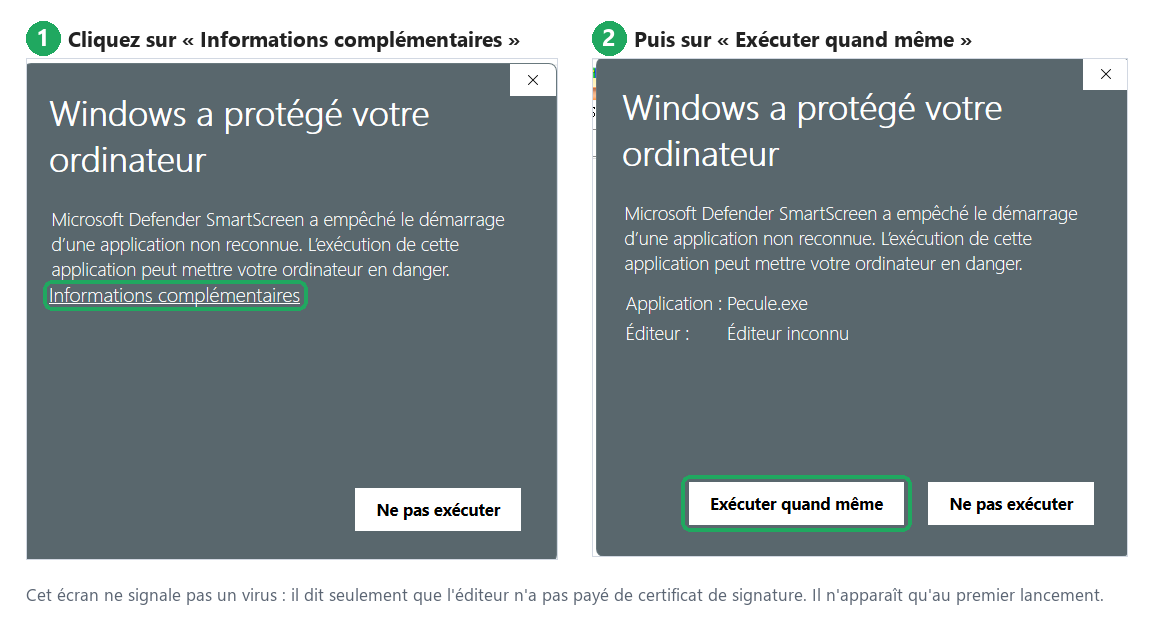
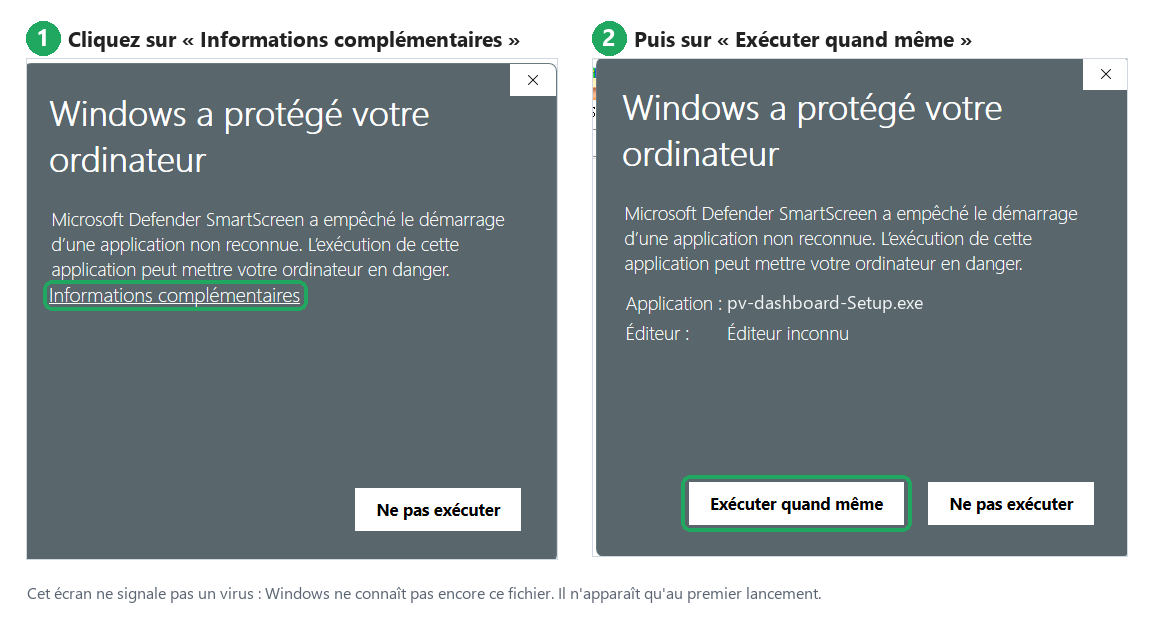
Documentation : README, image du site et commentaires remis d'accord
- README : trois onglets conditionnels (Annees OA en plus), l'etape
  « Mixte » de l'export d'index Enedis, les boutons Sauvegarde externe et
  Mise a jour, et neuf fichiers qui manquaient a la structure du projet ;
- page du site : l'image SmartScreen montrait « Pecule.exe » ; elle montre
  pv-dashboard-Setup.exe, et sa legende ne dit plus qu'un certificat
  enleverait l'avertissement (le texte de la page dit le contraire) ;
- commentaires : lancement par run.py, largeur du menu, plus de theme
  sombre, bascule HP/HC reglable et non plus « 2026 », populate(period).

Changed region(s): [[0.0312, 0.929, 0.9671, 0.959], [0.6239, 0.4495, 0.8111, 0.5095]]

diff --git a/calculations.py b/calculations.py
@@ -11,8 +11,9 @@ Modele :
 Tarifs :
   - Vente OA surplus : prix unique * injection
   - Prime autoconso : montant_par_kwc * Pcrete reparti sur 5 ans
-  - Achat reseau    : Bleu Base par tranches historiques jusqu'au 31/12/2025,
-                      puis Octopus HP/HC depuis le 01/01/2026.
+  - Achat reseau    : tarif a prix unique (Bleu Base) par tranches, puis
+                      contrat HP/HC a partir de la date de bascule
+                      (tarifs_reseau.bascule_hphc ; 01/01/2026 par defaut).
 """
 
 from __future__ import annotations
@@ -798,9 +799,9 @@ def cout_reseau_journalier(
     """
     Calcule le cout d'achat reseau journalier en EUR.
 
-    - Avant 2026 : prix unique Bleu Base * soutirage_kwh journalier
-    - Depuis 2026 : si soutirage_par_heure dispo -> split HP/HC reel ;
-                    sinon estimation via ratio HP/HC moyen.
+    - Avant la bascule HP/HC : prix unique Bleu Base * soutirage_kwh
+    - Depuis la bascule : detail HC/HP du jour s'il est releve ; sinon
+      estimation par le ratio HC observe sur les jours detailles.
     """
     out = df_daily.copy()
     out["cout_reseau_eur"] = 0.0
@@ -907,8 +908,8 @@ def economies_autoconsommation(
     Estimation de l'economie liee a l'autoconsommation : autoconso_kwh valorisee
     au prix d'achat reseau du moment.
 
-    - Avant 2026 : prix Bleu Base de la date.
-    - Depuis 2026 (Octopus) : l'autoconso remplace des achats en journee
+    - Avant la bascule HP/HC : prix Bleu Base de la date.
+    - Depuis la bascule : l'autoconso remplace des achats en journee
       (heures solaires), donc surtout en HP. On pondere HP/HC par
       part_hc_autoconso (config), et non par la duree des plages sur 24 h
       qui inclurait a tort la plage HC de nuit.

diff --git a/app_desktop.py b/app_desktop.py
@@ -1,8 +1,8 @@
 """
 Application desktop PySide6 - Dashboard photovoltaique style "appli comptes".
 
-Lancer :
-    py app_desktop.py
+Se lance par run.py (Lancer.vbs, Lancer.bat, l'exe) : c'est lui qui montre
+l'ecran d'attente puis ouvre cette fenetre.
 """
 
 from __future__ import annotations
@@ -734,7 +734,7 @@ class MainWindow(QMainWindow):
         self._update_status_bar()
 
     # Au-dela de cette longueur, deux noms de fournisseurs ne tiennent plus
-    # dans le menu (largeur fixe de 230 px) : on retombe sur un libelle
+    # dans le menu (largeur fixe de 212 px) : on retombe sur un libelle
     # generique plutot que sur un texte coupe au milieu.
     LARGEUR_MAX_NAV = 22
 
@@ -755,8 +755,7 @@ class MainWindow(QMainWindow):
         sections annoncees par un petit titre souligne. Difference avec
         Pecule, dont les boutons lancent des actions : ici ils menent a des
         pages, et celle qui est affichee est le bouton surligne. Les couleurs
-        suivent le theme (gui_theme.py) : en theme clair, ce sont celles de
-        Pecule ; en sombre, leur transposition.
+        suivent le theme (gui_theme.py), clair et seul : celles de Pecule.
         """
         sidebar = QFrame()
         sidebar.setObjectName("Sidebar")

diff --git a/views/_base.py b/views/_base.py
@@ -9,7 +9,7 @@ from gui_widgets import Card
 
 
 class BaseView(QWidget):
-    """Classe de base : chaque vue implemente `populate(df, period)`."""
+    """Classe de base : chaque vue implemente `populate(period)`."""
 
     # False dans les vues qui ignorent le selecteur de periode global :
     # MainWindow grise alors le menu deroulant quand la vue est affichee.

diff --git a/README.md b/README.md
@@ -175,8 +175,9 @@ d'une annee OA se lisent en survolant son entree dans le menu.
 ## Le menu de gauche
 
 Les pages sont rangees en quatre sections — Principal, Contrats, Analyse,
-Autres — chacune avec un pictogramme, separees par un filet. Deux n'apparaissent
-que si elles vous concernent : **TVA autoconsommation** (section `tva_lasm`
+Autres — chacune avec un pictogramme, separees par un filet. Trois n'apparaissent
+que si elles vous concernent : **Annees OA** (si vous vendez votre electricite :
+masquee avec `oa.type: aucune`), **TVA autoconsommation** (section `tva_lasm`
 remplie) et la **comparaison avec EDF** (fournisseur autre qu'EDF). Le bandeau reprend celui de Pecule : boutons rectangulaires, un
 emoji devant chaque libelle, titres de section soulignes ; la page
 affichee est le bouton surligne en bleu. En haut du
@@ -192,14 +193,16 @@ version.
 | Releves journaliers | Journal jour par jour : production, autoconsommee, injectee, achetee au reseau (et part du vehicule), recettes, depenses, bilan du jour ; ligne de totaux de la periode sous le tableau (a part, pour que le tri ne la deplace pas) |
 | Repartition energie | Taux d'autoconsommation, couverture solaire et bilan ; diagramme de flux (Sankey) production/reseau -> injection/consommation ; detail par poste avec prix au kWh ; comparaison N vs N-1 |
 | Synthese financiere | 6 postes (Vente OA, Prime, Economies, Facture, Investissement, Bilan global) + graphique « Remboursement de l'installation » (ce qu'elle a rapporte face a son cout, projection au rythme actuel ; chaque versement de la prime, qui fait une marche dans la courbe, est marque d'un point et le dernier porte l'etiquette « Prime autoconso »). Le **bilan global** = ventes + economies + primes versees − cout de l'installation : la facture reseau n'y entre pas (on la paierait sans panneaux ; ce que les panneaux y changent est deja dans les economies). Meme calcul que la barre « Installation remboursee » du tableau de bord (`amortissement()`) |
-| Annees OA | Recap par annee de contrat OA (de sa date de debut a la veille de son anniversaire) |
+| Annees OA | Recap par annee de contrat OA (de sa date de debut a la veille de son anniversaire). **Masquee sans revente** (`oa.type: aucune`) |
 | TVA autoconsommation | Base de la livraison a soi-meme par annee civile (ligne 5A du 3517-S), TVA due, et recoupement des injections relevees avec les factures EDF OA. **N'apparait que si la section `tva_lasm` est remplie** : elle ne concerne que les producteurs assujettis a la TVA |
 | Statistiques | Comparaisons annuelles, rendement kWh/kWc |
 | Comparaison N vs N-1 | La periode choisie en haut (mois, annee, annee OA) vs la meme periode un an plus tot (periode en cours : memes dates de N-1) ; bouton « Une journee precise » pour comparer un jour donne |
 | *Fournisseur* vs *reference* | Cout reel du contrat en cours vs simulation de l'offre de reference, options Base et HP/HC (depuis la bascule). Le libelle porte les noms declares en config : "Mon fournisseur vs EDF" avec le modele livre. **Masque quand le fournisseur declare est EDF** (`nom: "EDF"`) : comparer EDF a EDF n'a pas de sens |
 | Notice | Mode d'emploi et glossaire des termes |
 | Votre avis | Ouvre un court questionnaire en ligne dans le navigateur (probleme, idee), apres avoir copie la version. L'application n'envoie rien elle-meme. Une seule invitation, deux semaines apres le premier lancement |
-| Parametres | Vue lecture seule de la configuration, et la liste des recalages actifs |
+| Parametres | Vue lecture seule de la configuration, et la liste des recalages actifs ; bouton « Modifier mes reglages » |
+| 💾 Sauvegarde externe | Copie les donnees sur une cle USB ou un disque choisi, verifiee fichier par fichier. Un rappel s'affiche sur le tableau de bord au-dela de 30 jours sans sauvegarde |
+| 🔄 Mise a jour | Affiche la version installee et ouvre, a la demande, la page de la derniere version dans le navigateur : l'application ne se connecte jamais a Internet, c'est vous qui comparez les numeros |
 
 ## Donnees
 
@@ -281,7 +284,8 @@ export "date + valeur" passe (voir plus bas). Les trois sources habituelles :
   creuses / heures pleines**. Si vous injectez, sa feuille d'index de
   production donne en plus votre **injection** : un seul fichier remplit
   quatre colonnes. Pour l'obtenir : *Ma consommation > Suivre ma
-  consommation*, choisir **Index (kWh)** dans le menu de droite, puis
+  consommation*, choisir **Mixte** dans le menu du milieu (sans quoi la
+  production manque) et **Index (kWh)** dans celui de droite, puis
   *Telecharger le .xlsx* ;
 - **chez Enedis** toujours, le **classeur Excel** officiel
   (`..._Export_energie_Consommation-Production_....xlsx`) : les feuilles
@@ -725,6 +729,7 @@ pv-dashboard/
 ├── Lancer.bat            # Lanceur debug (console visible)
 ├── Construire-Exe.bat    # Fabrique le dossier dist
 ├── faire_installeur.py   # Fabrique distribution\pv-dashboard-Setup-X.Y.Z.exe
+├── faire_archive.py      # Fabrique l'archive portable (.zip), sans installeur
 ├── installeur/
 │   └── pv-dashboard.iss  #   Recette Inno Setup. Son AppId ne doit JAMAIS
 │                         #   changer (reconnaissance des mises a jour)
@@ -737,6 +742,13 @@ pv-dashboard/
 ├── data_loaders.py       # Lecture/ecriture Releves-pv.csv (atomique + .bak)
 ├── gui_theme.py          # Theme clair + QSS + style matplotlib
 ├── gui_widgets.py        # Widgets reutilisables (cards, KPI, pill...)
+├── reglages.py           # « Mes reglages » : lire et ecrire config.yaml
+├── fenetre_reglages.py   #   ... et la fenetre qui les presente
+├── erreurs.py            # Erreurs techniques dites en francais (commun
+│                         #   aux trois applications de l'auteur)
+├── sauvegarde_externe.py # Copie verifiee sur cle USB ou disque (commun)
+├── mise_a_jour.py        # Existe-t-il une version plus recente ?
+├── avis.py               # « Votre avis » : le questionnaire en ligne
 ├── views/                # Une vue par fichier, une par section de l'app
 │   ├── _base.py          #   BaseView commune
 │   ├── _helpers.py       #   formatage FR + filtrage de periode
@@ -768,6 +780,8 @@ pv-dashboard/
 │   -- verification et outillage --
 ├── tests/                # Tests unitaires pytest
 ├── smoke_desktop.py      # Test de bon demarrage (offscreen)
+├── demo_releves.py       # Releves INVENTES (smoke test, captures)
+├── captures_site.py      # Captures de la page de presentation
 ├── pytest.ini
 ├── ruff.toml             # Regles d'analyse statique
 ├── requirements.txt      # Dependances d'execution
